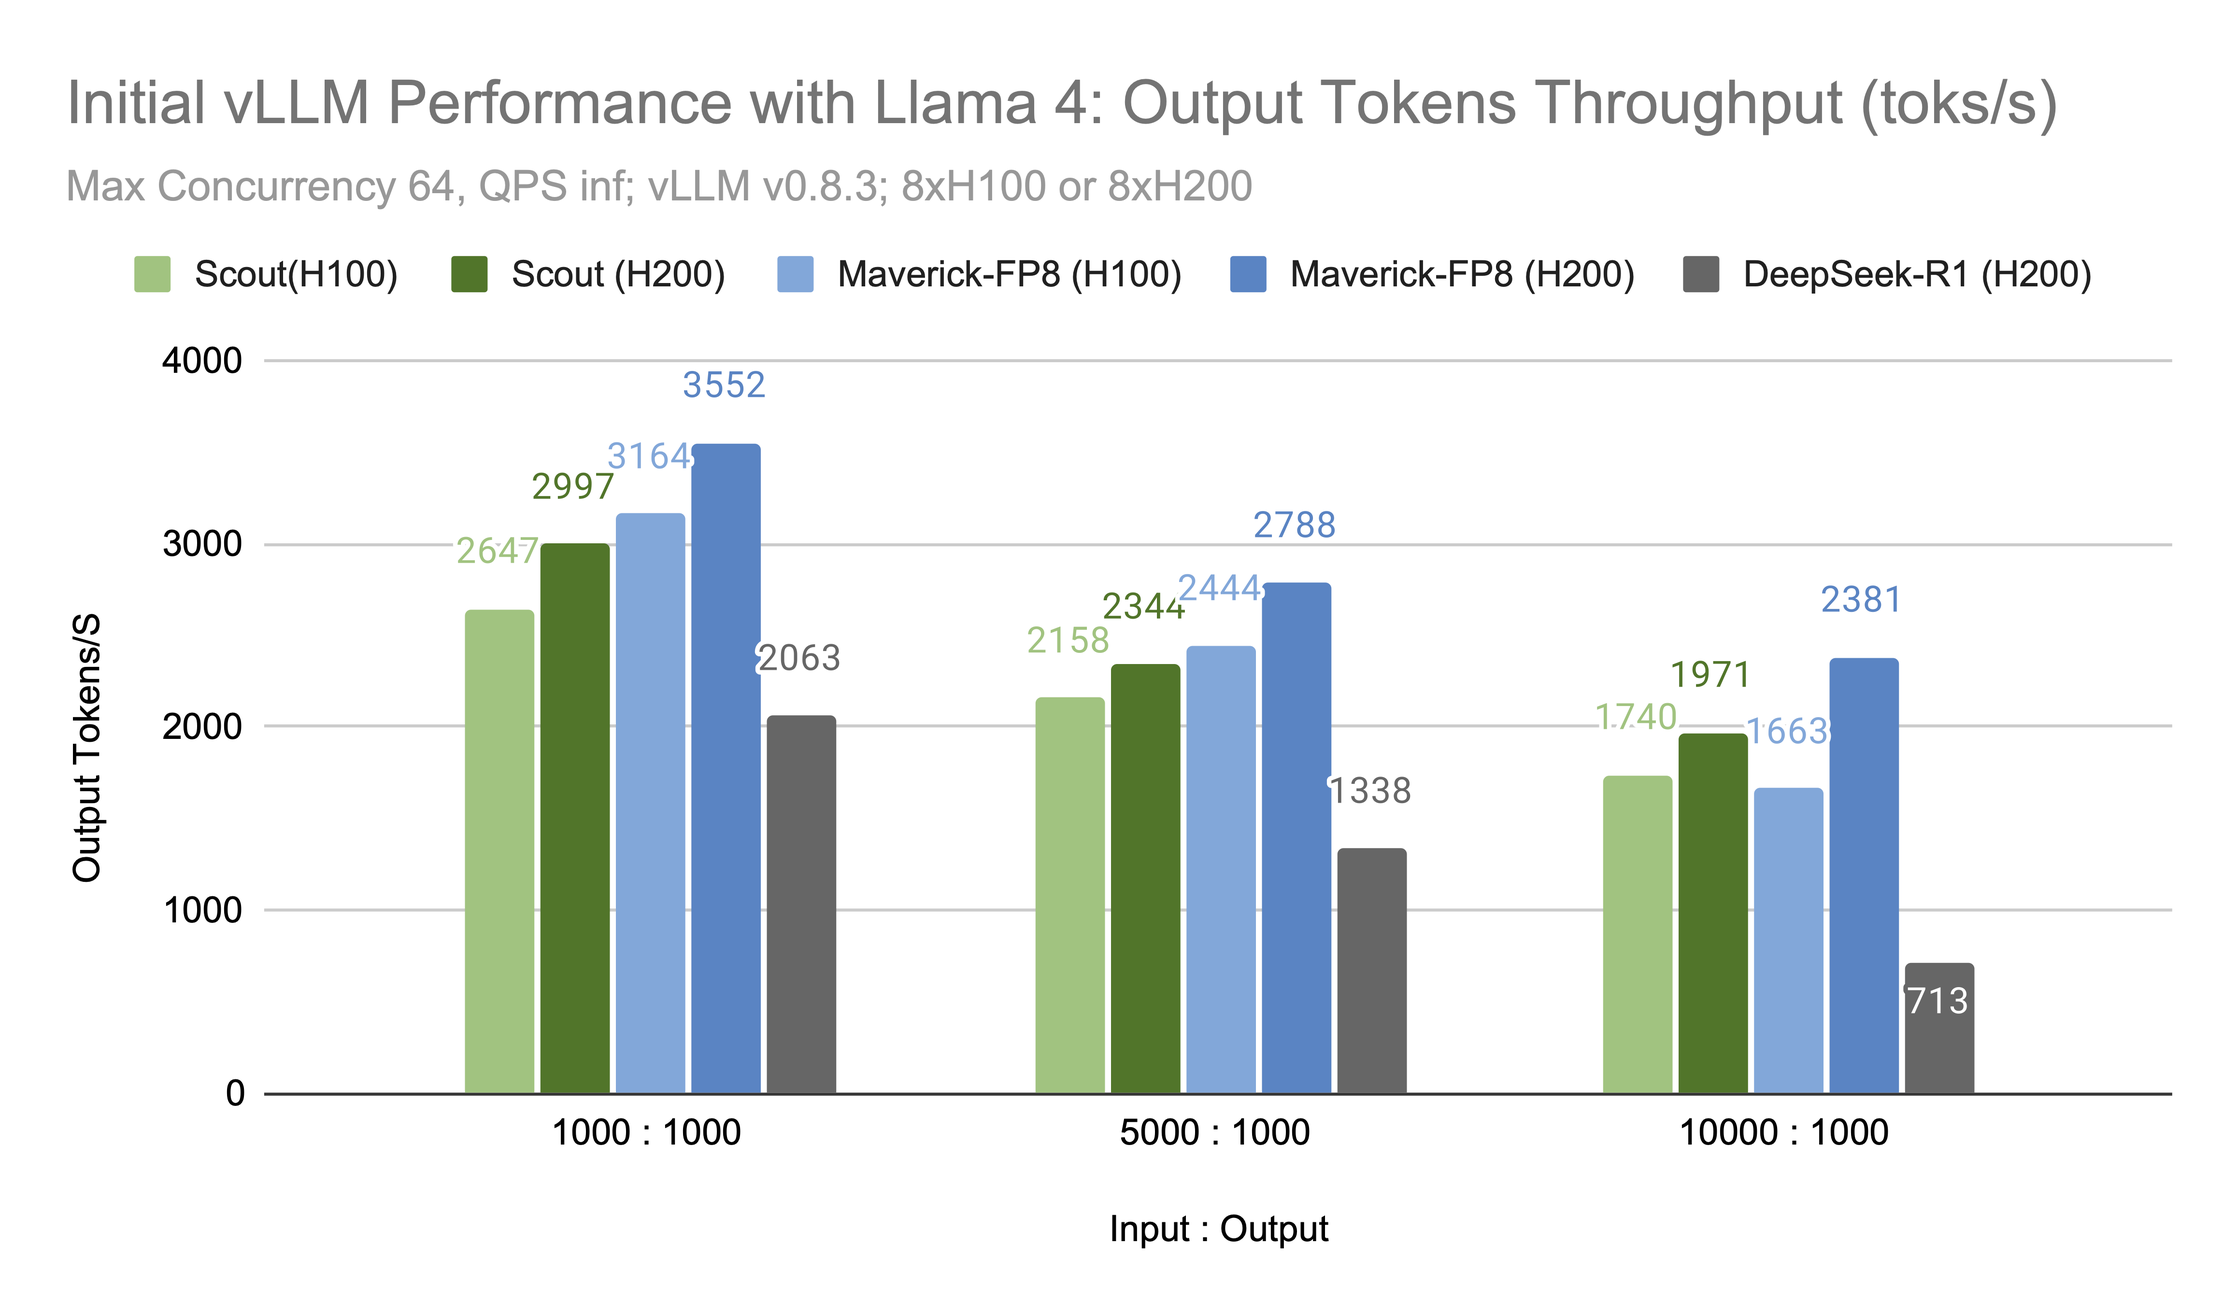
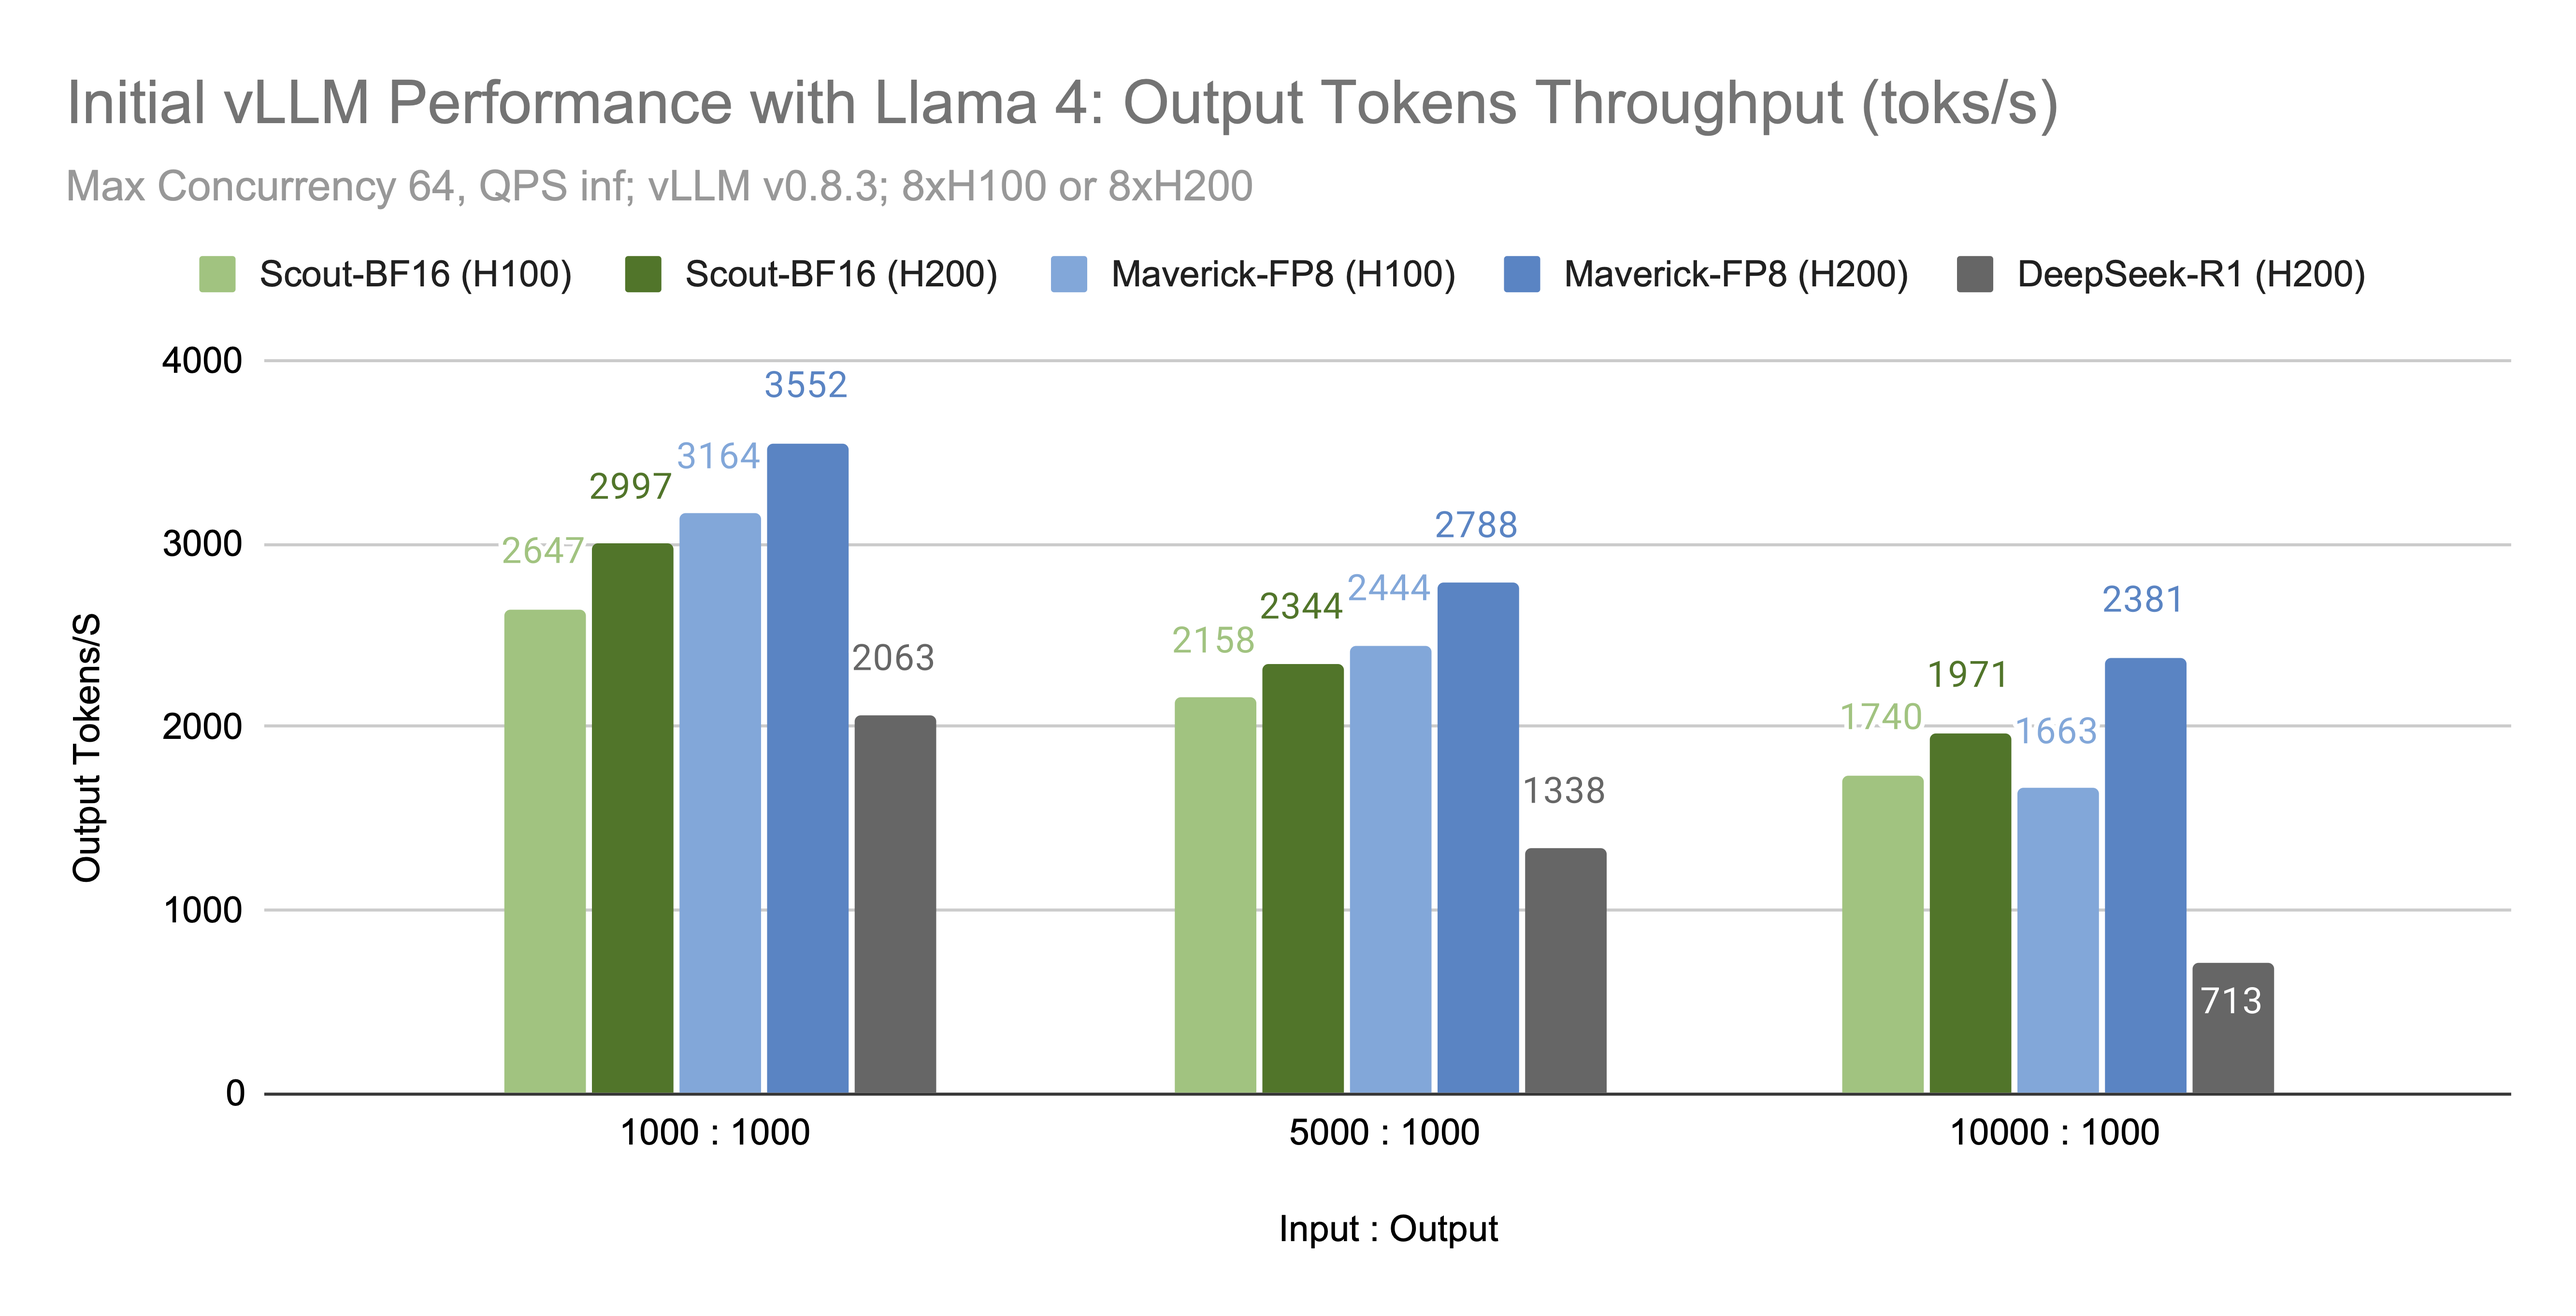
charlotte edits

diff --git a/_posts/2025-04-05-llama4.md b/_posts/2025-04-05-llama4.md
@@ -60,7 +60,7 @@ vllm serve meta-llama/Llama-4-Maverick-17B-128E-Instruct-FP8 \
 
 **Performance:**
 
-With the configurations above, we observe the following output tokens/s. Note that Scout is smaller but runnning with bfloat 16 while Maverick is running with fp8.
+With the configurations above, we observe the following output tokens/s for Scout-BF16 and Maverick-FP8:
 
 ![](/assets/figures/llama4/perf.png)
 
@@ -75,7 +75,7 @@ While more performance enhancements are on the way, we believe the Llama 4 model
 **Other Hardware Support & Quantizations:**
 
 * A100: We have verified that the bf16 versions of the models work well on A100 GPUs.
-* INT4: An INT4-quantized version of the Scout model checkpoint is currently a work in progress. Stay tuned for updates.
+* INT4: An INT4-quantized version of the Scout model checkpoint that fits on a single H100 GPUis currently a work in progress. Stay tuned for updates.
 * AMD MI300X: You can run Llama 4 on AMD MI300X GPUs by building [vLLM from source](https://docs.vllm.ai/en/latest/getting_started/installation/gpu.html?device=rocm) and using the same commands as above.
 
 **Inference Accuracy Validation:**
@@ -85,7 +85,7 @@ We validated inference accuracy against the official Meta report using lm-eval-h
 |----------|---------|---------|
 | Reported | 80.5 | 90 |
 | H100 FP8 | 80.4 | 89.4 |
-| AMD BF16 | 80.4 | 89.4 |
+| AMD MI300x BF16 | 80.4 | 89.4 |
 | H200 BF16 | 80.2 | 89.3 |
 
 ## Efficient Architecture and Cluster Scale Serving
